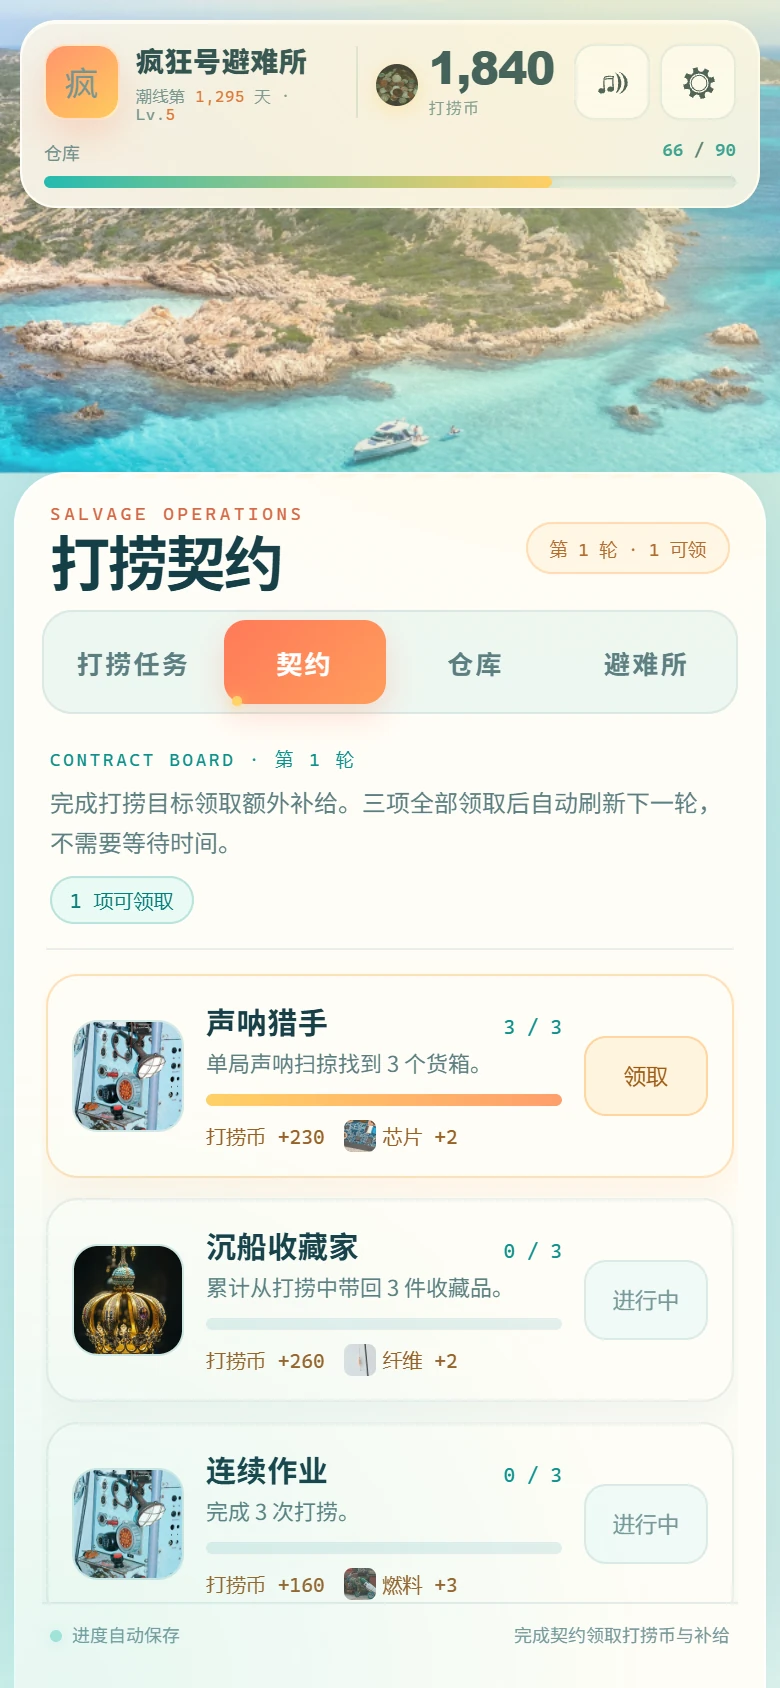
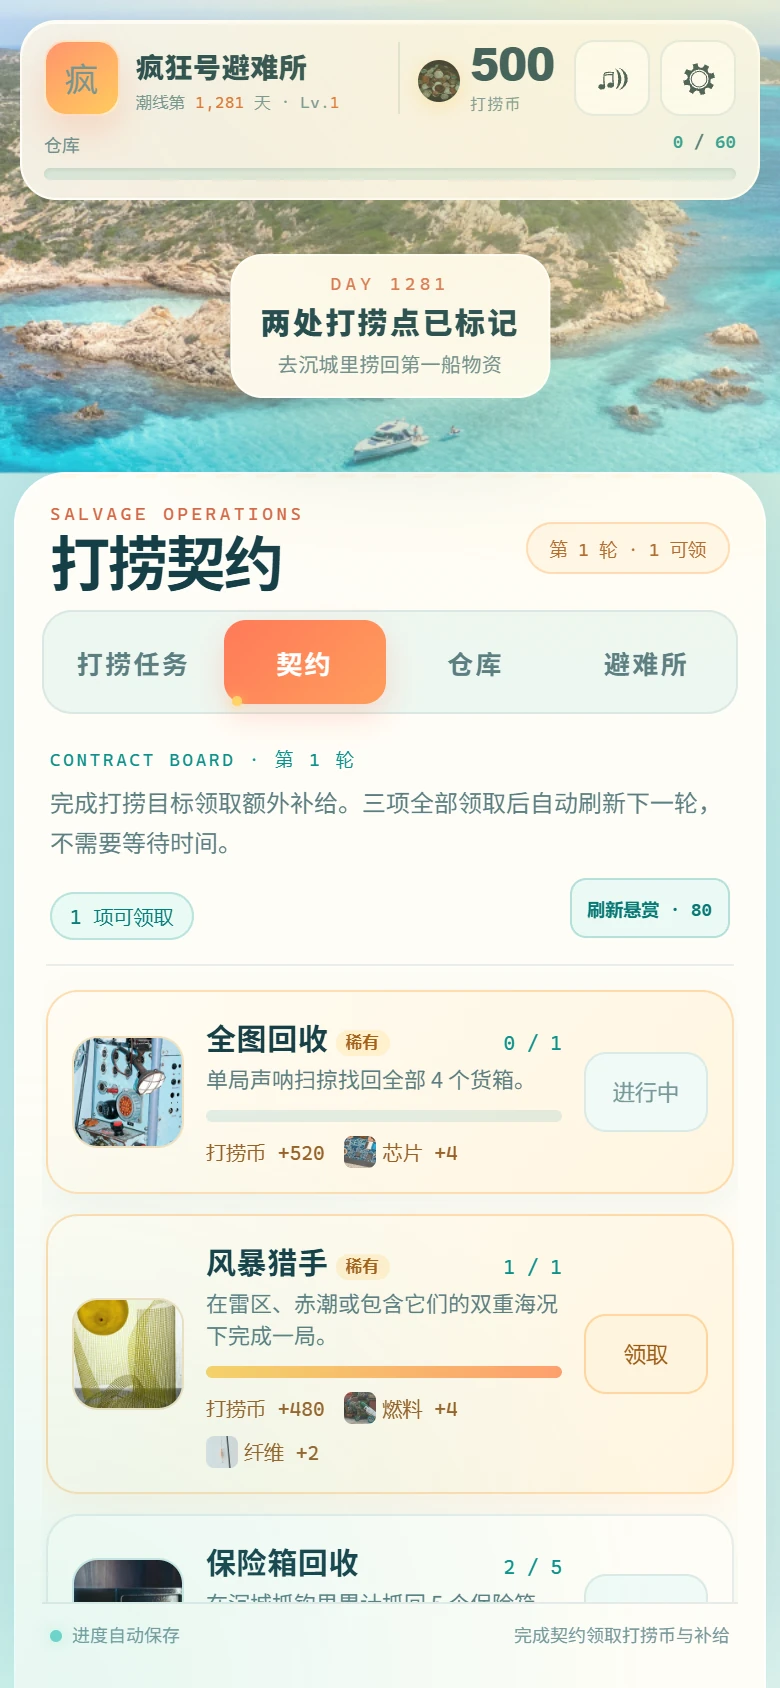
v4.6: 稀有悬赏、契约刷新与全清奖励

diff --git a/js/hub.js b/js/hub.js
@@ -152,6 +152,16 @@
       id: 'collector', name: '沉船收藏家', iconImg: 'assets/collectibles/tide-crown.webp', metric: 'collectibles', mode: 'sum', target: 3,
       desc: '累计从打捞中带回 3 件收藏品。',
       reward: { credits: 260, mats: { fiber: 2 } }
+    },
+    {
+      id: 'perfect-sonar', name: '全图回收', iconImg: 'assets/real/sonar.webp', metric: 'sonarPerfect', mode: 'max', target: 1, rare: true,
+      desc: '单局声呐扫掠找回全部 4 个货箱。',
+      reward: { credits: 520, mats: { chip: 4 } }
+    },
+    {
+      id: 'storm-run', name: '风暴猎手', iconImg: 'assets/real/mine.webp', metric: 'stormRun', mode: 'max', target: 1, rare: true,
+      desc: '在雷区、赤潮或包含它们的双重海况下完成一局。',
+      reward: { credits: 480, mats: { fuel: 4, fiber: 2 } }
     }
   ]);
 
@@ -279,11 +289,20 @@
   }
 
   function makeContractSet() {
-    var pool = CONTRACTS.slice();
+    var normal = [];
+    var rare = [];
+    for (var i = 0; i < CONTRACTS.length; i++) {
+      if (CONTRACTS[i].rare) rare.push(CONTRACTS[i]);
+      else normal.push(CONTRACTS[i]);
+    }
     var out = [];
-    while (out.length < 3 && pool.length) {
-      var idx = (Math.random() * pool.length) | 0;
-      var def = pool.splice(idx, 1)[0];
+    if (rare.length && chance(0.22)) {
+      var r = rare[(Math.random() * rare.length) | 0];
+      out.push({ id: r.id, progress: 0, claimed: false });
+    }
+    while (out.length < 3 && normal.length) {
+      var idx = (Math.random() * normal.length) | 0;
+      var def = normal.splice(idx, 1)[0];
       out.push({ id: def.id, progress: 0, claimed: false });
     }
     return out;
@@ -325,6 +344,7 @@
       collectibles: {},
       contracts: makeContractSet(),
       contractRound: 1,
+      contractRerollUsed: false,
       daily: null,
       dailyStreak: 0,
       lastDailyClaim: '',
@@ -382,6 +402,7 @@
     data.stats.goldTotal = Math.max(0, Math.floor(Number(raw.stats && raw.stats.goldTotal) || 0));
     data.contracts = normalizeContractSet(raw.contracts);
     data.contractRound = Math.max(1, Math.floor(Number(raw.contractRound) || 1));
+    data.contractRerollUsed = !!raw.contractRerollUsed;
     data.dailyStreak = clamp(Math.floor(Number(raw.dailyStreak) || 0), 0, 999);
     data.lastDailyClaim = typeof raw.lastDailyClaim === 'string' ? raw.lastDailyClaim : '';
     if (raw.daily && typeof raw.daily === 'object') {
@@ -773,6 +794,11 @@
       case 'runs': return 1;
       case 'chips': return Math.max(0, Number(result.materials && result.materials.chip) || 0);
       case 'sonarFinds': return Math.max(0, Number(result.found) || 0);
+      case 'sonarPerfect': return result.type === 'sonar' && Number(result.found || 0) >= 4 ? 1 : 0;
+      case 'stormRun': {
+        var cid = String(result.condition || '');
+        return cid.indexOf('storm') >= 0 || cid.indexOf('redtide') >= 0 ? 1 : 0;
+      }
       case 'collectibles': return Array.isArray(result.collectibles) ? result.collectibles.length : 0;
       default: return 0;
     }
@@ -909,12 +935,56 @@
       if (!this.data.contracts[i].claimed) { allClaimed = false; break; }
     }
     if (allClaimed) {
+      var clearBonus = this.grantContractReward({ credits: 120, mats: { metal: 4, fiber: 2 } });
       this.data.contracts = makeContractSet();
       this.data.contractRound = Math.max(1, this.data.contractRound || 1) + 1;
-      this.showToast('CONTRACT ROUND', '第 ' + this.data.contractRound + ' 轮契约', '新目标已刷新 · 继续打捞');
+      this.data.contractRerollUsed = false;
+      this.showToast('CONTRACT ROUND', '第 ' + this.data.contractRound + ' 轮契约', '全清额外 +' + fmt(clearBonus.credits) + ' 打捞币 · 新目标已刷新');
     } else {
       this.showToast('CONTRACT CLAIMED', def.name, '+' + fmt(reward.credits) + ' 打捞币' + (reward.overflow ? ' · 仓库溢出已折算' : ''));
     }
+    this.saveGame();
+    this.updateUI();
+    this.renderPanel();
+  };
+
+  Hub.prototype.rerollContracts = function () {
+    if (this.data.contractRerollUsed) return;
+    if ((this.data.credits || 0) < 80) {
+      this.audio.warn();
+      this.showToast('NOT ENOUGH', '刷新需要 80 打捞币', '再捞一趟再来换目标');
+      return;
+    }
+    this.data.credits -= 80;
+    var kept = [];
+    for (var i = 0; i < this.data.contracts.length; i++) {
+      if (this.data.contracts[i] && this.data.contracts[i].claimed) kept.push(this.data.contracts[i]);
+    }
+    var fresh = makeContractSet();
+    var chosen = {};
+    var out = [];
+    for (var k = 0; k < kept.length; k++) {
+      out.push(kept[k]);
+      chosen[kept[k].id] = true;
+    }
+    for (var f = 0; f < fresh.length && out.length < 3; f++) {
+      if (chosen[fresh[f].id]) continue;
+      out.push(fresh[f]);
+      chosen[fresh[f].id] = true;
+    }
+    var guard = 0;
+    while (out.length < 3 && guard++ < 30) {
+      var extra = makeContractSet();
+      for (var e = 0; e < extra.length && out.length < 3; e++) {
+        if (chosen[extra[e].id]) continue;
+        out.push(extra[e]);
+        chosen[extra[e].id] = true;
+      }
+    }
+    this.data.contracts = out;
+    this.data.contractRerollUsed = true;
+    this.audio.buy();
+    this.showToast('CONTRACTS REROLLED', '契约已刷新', '已领取的契约保留 · 本轮不能再刷新');
     this.saveGame();
     this.updateUI();
     this.renderPanel();
@@ -1057,10 +1127,16 @@
   Hub.prototype.renderContracts = function () {
     var round = Math.max(1, this.data.contractRound || 1);
     var ready = this.contractsReadyCount();
+    var rerollUsed = !!this.data.contractRerollUsed;
+    var canReroll = !rerollUsed && (this.data.credits || 0) >= 80;
     var html = '<div class="contract-intro">' +
       '<span class="contract-kicker">CONTRACT BOARD · 第 ' + round + ' 轮</span>' +
       '<p>完成打捞目标领取额外补给。三项全部领取后自动刷新下一轮，不需要等待时间。</p>' +
-      '<span class="contract-count">' + (ready ? ready + ' 项可领取' : '进行中') + '</span>' +
+      '<div class="contract-intro-foot"><span class="contract-count">' + (ready ? ready + ' 项可领取' : '进行中') + '</span>' +
+        '<button class="contract-reroll" data-action="reroll-contracts"' + (canReroll ? '' : ' disabled') + '>' +
+          (rerollUsed ? '本轮已刷新' : '刷新悬赏 · 80') +
+        '</button>' +
+      '</div>' +
       '</div><div class="contract-list">';
     for (var i = 0; i < this.data.contracts.length; i++) {
       var c = this.data.contracts[i];
@@ -1075,10 +1151,10 @@
         var amount = def.reward.mats && def.reward.mats[mat.id];
         if (amount) rewardHtml += '<span><img src="' + mat.iconImg + '" alt="">' + mat.name + ' +' + amount + '</span>';
       }
-      html += '<article class="contract-card' + (isReady ? ' ready' : '') + (c.claimed ? ' claimed' : '') + '">' +
+      html += '<article class="contract-card' + (def.rare ? ' rare' : '') + (isReady ? ' ready' : '') + (c.claimed ? ' claimed' : '') + '">' +
         '<div class="contract-icon"><img src="' + def.iconImg + '" alt=""></div>' +
         '<div class="contract-body">' +
-          '<div class="contract-title"><b>' + def.name + '</b><span>' + progress + ' / ' + def.target + '</span></div>' +
+          '<div class="contract-title"><b>' + def.name + (def.rare ? ' <em class="contract-rare">稀有</em>' : '') + '</b><span>' + progress + ' / ' + def.target + '</span></div>' +
           '<p class="contract-desc">' + def.desc + '</p>' +
           '<div class="contract-track"><i style="width:' + (pct * 100).toFixed(1) + '%"></i></div>' +
           '<div class="contract-reward">' + rewardHtml + '</div>' +
@@ -1594,6 +1670,7 @@
         else if (action === 'mission') self.startMission(actionEl.getAttribute('data-mission'));
         else if (action === 'upgrade') self.buyUpgrade(actionEl.getAttribute('data-upgrade'));
         else if (action === 'claim-contract') self.claimContract(parseInt(actionEl.getAttribute('data-contract'), 10));
+        else if (action === 'reroll-contracts') self.rerollContracts();
         else if (action === 'claim-daily') self.claimDaily();
         else if (action === 'craft') self.craft(actionEl.getAttribute('data-rarity'));
         else if (action === 'claim-achievement') self.claimAchievement(actionEl.getAttribute('data-id'));

diff --git a/css/style.css b/css/style.css
@@ -1916,6 +1916,18 @@ body::after {
   .mission-desc { font-size: 12px; }
 }
 
+.contract-intro-foot { display: flex; align-items: center; justify-content: space-between; gap: 8px; margin-top: 8px; }
+.contract-reroll { min-height: 30px; padding: 0 8px; border: 1px solid rgba(15, 143, 138, 0.24); border-radius: 8px; background: #eaf9f4; color: #0b7774; font-family: var(--mono); font-size: 9px; font-weight: 700; }
+.contract-reroll:disabled { border-color: rgba(19, 93, 96, 0.08); background: #eee9de; color: #9b917f; }
+.contract-reroll:not(:disabled):hover { background: #dff7ee; }
+.contract-card.rare { border-color: rgba(255, 174, 80, 0.38); background: linear-gradient(135deg, #fffcf4, #fff5df); }
+.contract-card.rare .contract-icon { border-color: rgba(255, 174, 80, 0.32); }
+.contract-rare { padding: 2px 5px; border-radius: 99px; background: #fff0cc; color: #a4611d; font-family: var(--mono); font-size: 8px; font-style: normal; font-weight: 700; vertical-align: middle; }
+@media (max-width: 380px) {
+  .contract-reroll { min-height: 32px; font-size: 9px; }
+  .contract-intro-foot { gap: 5px; }
+}
+
 /* Ship's log achievements */
 .shelter-switch { margin-bottom: 12px; }
 .achievement-summary { padding: 2px 2px 11px; border-bottom: 1px solid rgba(19, 93, 96, 0.09); }

diff --git a/index.html b/index.html
@@ -133,7 +133,7 @@
       </div>
       <div class="title-footer">
         <span>海岸实景素材 · 本地图片 · 无离线收益</span>
-        <span>v4.5 · SUNNY COAST</span>
+        <span>v4.6 · SUNNY COAST</span>
       </div>
     </section>
 
@@ -218,7 +218,7 @@
         <button class="btn ghost wide" data-action="guide">查看玩法说明</button>
         <button id="reset-save" class="btn danger wide" data-action="reset-save">清空避难所</button>
         <p class="modal-note">清空会删除打捞币、物资和所有扩建，无法撤销。再次点击确认。</p>
-        <p class="version">疯狂水世界 · v4.5 · 本地图片素材 + 程序化特效，无远程依赖</p>
+        <p class="version">疯狂水世界 · v4.6 · 本地图片素材 + 程序化特效，无远程依赖</p>
       </div>
     </section>
 
@@ -292,6 +292,7 @@
   </main>
 </body>
 </html>
+
 
 
 

diff --git a/DESIGN.md b/DESIGN.md
@@ -1,6 +1,6 @@
 # 疯狂水世界 · 游戏设计文档
 
-> 版本：4.5 · 类型：海岸打捞 / 小游戏合集 / 轻松经营  
+> 版本：4.6 · 类型：海岸打捞 / 小游戏合集 / 轻松经营  
 > 平台：桌面与移动端浏览器 · 单局 1–3 分钟 · 无离线收益
 
 ---
@@ -238,7 +238,7 @@ HUD 以「末日第 1,281 天」计量时间，每完成一局打捞推进 2 天
 
 ### 8.5 打捞契约
 
-- 每个存档保存 3 个契约，从 7 类目标中随机抽取且不重复；保存 `contractRound` 轮次和每个契约的 `progress / claimed`。
+- 每个存档保存 3 个契约，从普通目标中随机抽取且不重复；约 22% 轮次额外加入 1 个稀有悬赏（全图回收 / 风暴猎手）。保存 `contractRound` 轮次、`contractRerollUsed` 与每个契约的 `progress / claimed`。
 - 目标类型：
   - 累计抓回保险箱；
   - 单局抓钩最高连击；
@@ -249,7 +249,8 @@ HUD 以「末日第 1,281 天」计量时间，每完成一局打捞推进 2 天
   - 累计金条。
 - 进度只在**完成一局并结算**时更新；“单局最高”类取历史最大值，累计类相加。
 - 达成后可在「契约」标签领取打捞币和补给材料；补给材料受仓库容量限制，溢出部分按材料价折算成打捞币。
-- 三项全部领取后立即生成下一轮契约，不依赖时间、不产生离线收益。
+- 每轮可花 80 打捞币刷新一次未领取契约，已领取的契约保留。
+- 三项全部领取后立即生成下一轮契约，并额外给予 120 打捞币 + 材料全清奖励；不依赖时间、不产生离线收益。
 - 设计目的：给“这一局该玩什么”提供短期目标，同时把三个小游戏和仓库经济连起来。
 
 ### 8.6 海况词条
@@ -449,6 +450,7 @@ CREDITS.md                        图片与图标授权
 ---
 
 所有核心数值集中在 `js/hub.js`、`js/arcade.js`、`js/match.js` 顶部，方便直接调整并重新平衡。过滤器出现率分别在 `HookGame.buildField`（12%）和 `MatchGame.finish`（5%）中调整。
+
 
 
 

diff --git a/ROADMAP.md b/ROADMAP.md
@@ -2,7 +2,15 @@
 
 > 每 2 小时一轮。每轮先列计划，再做一项以上有意义的改动，并完成测试与文档更新。
 
-## 当前版本：v4.5
+## 当前版本：v4.6
+
+### v4.6 · 稀有悬赏与契约刷新
+
+- 约 22% 轮次出现 1 个稀有悬赏：全图回收 / 风暴猎手。
+- 每轮可花 80 打捞币刷新一次未领取契约，已领取契约保留。
+- 三项全清额外奖励 120 打捞币 + 材料，并重置刷新次数。
+- 契约卡增加稀有描边与「稀有」徽章。
+- 不改变每日契约、成就、许可和离线规则。
 
 ### v4.5 · 出航许可
 
@@ -142,6 +150,7 @@
 4. 更新版本号、README / DESIGN、必要的预览图和 `CREDITS.md`。
 5. 回复按「计划 → 改动 → 测试 → 下一轮候选」输出。
 6. 保持：**无离线收益、无体力、无远程运行时依赖**。
+
 
 
 

diff --git a/README.md b/README.md
@@ -120,8 +120,10 @@ python -m http.server 4173
 
 - 完成一局打捞后自动更新进度；**没有离线进度**。
 - 进度达标后可领取 **打捞币 + 补给材料**，奖励同样受仓库容量影响。
-- 三项全部领取后自动刷新下一轮，不等待时间、不需要刷新页面。
-- 契约图标、进度条和奖励都直接显示在「契约」标签里。
+- 约 **22%** 的轮次会出现 1 个**稀有悬赏**：全图回收或风暴猎手，目标更难、奖励更高。
+- 每轮可以花 **80 打捞币**刷新一次未领取契约；已领取的契约会保留。
+- 三项全部领取后自动刷新下一轮，并额外获得 **120 打捞币 + 材料**全清奖励。
+- 契约图标、进度条、稀有标记和奖励都直接显示在「契约」标签里。
 
 ## 海况词条
 
